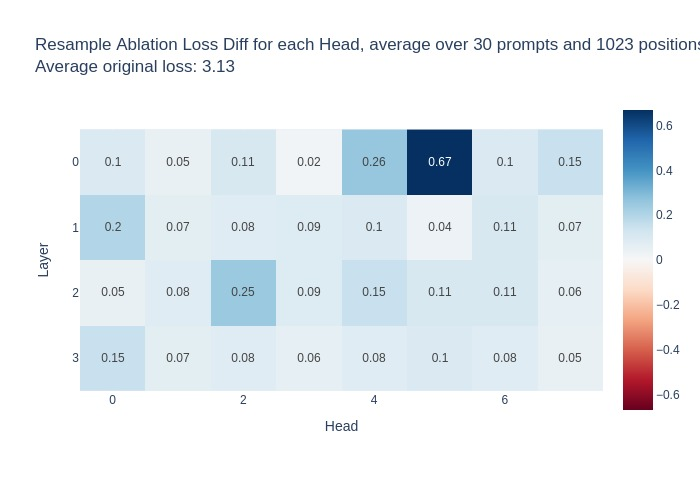
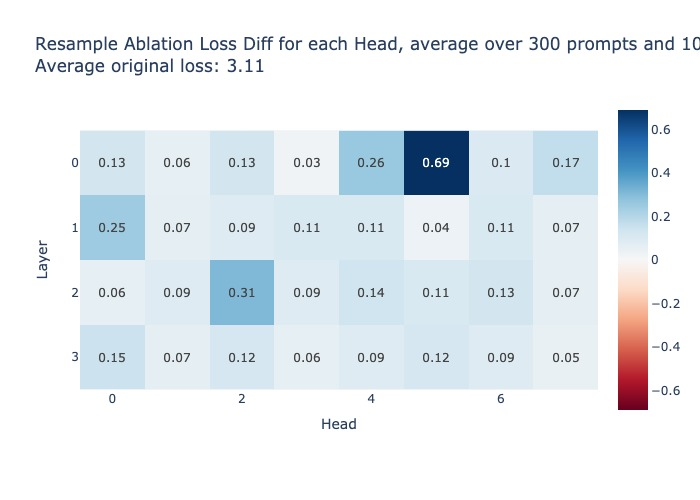
fig7 change to 300 prompts

diff --git a/figure_recreation/fig7_resample_ablation.py b/figure_recreation/fig7_resample_ablation.py
@@ -1,15 +1,17 @@
-#%%
+# %%
 # Gross code to allow for importing from parent directory
 import os, sys
 from pathlib import Path
+
 parent_path = str(Path(os.getcwd()).parent)
 if parent_path not in sys.path:
     sys.path.append(parent_path)
 
 # %% Import modules
 import torch
+
 torch.set_grad_enabled(False)
-device = torch.device('cpu') #'cuda' if torch.cuda.is_available() else 
+device = torch.device("cpu")  #'cuda' if torch.cuda.is_available() else
 
 import plotly.express as px
 import pandas as pd
@@ -29,18 +31,22 @@ import plotly.graph_objects as go
 import gc
 import seaborn as sns
 from matplotlib import pyplot as plt
-sns.set() # Setting seaborn as default style even if use only matplotlib
+
+sns.set()  # Setting seaborn as default style even if use only matplotlib
 
 from load_data import (
     get_prompts_t,
 )
 
-N_TEXT_PROMPTS = 24
-N_CODE_PROMPTS = 6
+N_TEXT_PROMPTS = 240
+N_CODE_PROMPTS = 60
 FIG_FILEPATH = "figs/fig7_resample_ablation.jpg"
 
-#%% Setup model & load data
-model = HookedTransformer.from_pretrained('gelu-4l')
+BATCH_SIZE = N_TEXT_PROMPTS + N_CODE_PROMPTS
+MINI_BATCH_SIZE = 5
+
+# %% Setup model & load data
+model = HookedTransformer.from_pretrained("gelu-4l")
 model.cfg.use_attn_result = True
 model.to(device)
 
@@ -60,46 +66,69 @@ def resample_ablation(activation, hook, head):
 
     return activation
 
-# %% calculate loss change for each head
-BATCH_SIZE = N_TEXT_PROMPTS + N_CODE_PROMPTS
-# BATCH_SIZE = 5
+# Compute loss diff using minibatch
+def compute_loss_diff_minibatch(prompts_t, model):
+    logits = model(prompts_t, return_type="logits")
+    ori_loss: Float[Tensor, "batch"] = model.loss_fn(
+        logits=logits, tokens=prompts_t, per_token=True
+    ).mean(dim=-1)
 
-# Compute original loss
-logits = model(prompts_t[:BATCH_SIZE, :], return_type="logits")
-original_losses = model.loss_fn(logits=logits, tokens=prompts_t[:BATCH_SIZE, :], per_token=True)
-# del logits
-# gc.collect()
-
-ablated_loss_diff_matrix = torch.zeros((model.cfg.n_layers, model.cfg.n_heads, BATCH_SIZE, model.cfg.n_ctx-1))
-
-
-progress_bar = tqdm(
-    product(range(model.cfg.n_layers), range(model.cfg.n_heads)),
-    total=model.cfg.n_layers * model.cfg.n_heads,
-)
-for layer, head in progress_bar:
-    ablated_logits = model.run_with_hooks(
-        prompts_t[:BATCH_SIZE], 
-        return_type="logits", 
-        fwd_hooks=[(get_act_name('result', layer), partial(resample_ablation, head=head))]
+    ablated_loss_diff = torch.zeros(
+        (model.cfg.n_layers, model.cfg.n_heads, prompts_t.shape[0])
     )
-    losses_per_head = model.loss_fn(logits=ablated_logits, tokens=prompts_t[:BATCH_SIZE], per_token=True)
-    # del ablated_logits
-    # gc.collect()
 
-    ablated_loss_diff_matrix[layer, head] = losses_per_head - original_losses
+    progress_bar = tqdm(
+        product(range(model.cfg.n_layers), range(model.cfg.n_heads)),
+        total=model.cfg.n_layers * model.cfg.n_heads,
+    )
 
-print(original_losses.mean(dim=(-1, -2)))
-ori_loss = original_losses.mean(dim=(-1, -2)).item()
+    for layer, head in progress_bar:
+        ablated_logits = model.run_with_hooks(
+            prompts_t,
+            return_type="logits",
+            fwd_hooks=[
+                (get_act_name("result", layer), partial(resample_ablation, head=head))
+            ],
+        )
+        losses_per_head: Float[Tensor, "batch"] = model.loss_fn(
+            logits=ablated_logits, tokens=prompts_t, per_token=True
+        ).mean(dim=-1)
+
+        ablated_loss_diff[layer, head] = losses_per_head - ori_loss
+
+    return ablated_loss_diff, ori_loss
+
+
+def compute_loss_diff(prompts_t, model, batch_size, mb_size=5):
+    ablated_loss_diff = torch.zeros(
+        (model.cfg.n_layers, model.cfg.n_heads, batch_size)
+    )
+    ori_loss = torch.zeros(batch_size)
+    for i in tqdm(range(0, batch_size, mb_size)):
+        (
+            ablated_loss_diff[:, :, i : i + mb_size],
+            ori_loss[i : i + mb_size],
+        ) = compute_loss_diff_minibatch(
+            prompts_t[i : i + mb_size], model
+        )
+    return ablated_loss_diff, ori_loss
+
+# %% calculate loss change for each head
+ablated_loss_diff, ori_loss = compute_loss_diff(prompts_t, model, BATCH_SIZE, MINI_BATCH_SIZE)
+print("Done computing loss diff")
+print(f"Original losses: {ori_loss.mean().item()}")
+# %% generate plot
+
 fig = px.imshow(
-    ablated_loss_diff_matrix.mean(dim=(-1, -2)).round(decimals=2),
+    ablated_loss_diff.mean(dim=-1).round(decimals=2),
     color_continuous_midpoint=0,
     color_continuous_scale="RdBu",
-    title=f"Resample Ablation Loss Diff for each Head, average over {BATCH_SIZE} prompts and {model.cfg.n_ctx-1} positions<br>Average original loss: {ori_loss:.2f}",
+    title=f"Resample Ablation Loss Diff for each Head, average over {BATCH_SIZE} prompts and {model.cfg.n_ctx-1} positions<br>Average original loss: {ori_loss.mean().item():.2f}",
     labels=dict(x="Head", y="Layer"),
-    text_auto=True)
+    text_auto=True,
+)
 
-#%%
+# %%
 # Write the figure to file
 fig.write_image(FIG_FILEPATH)  # requires kaleido installed
 print("Saved figure to file: ", FIG_FILEPATH)
